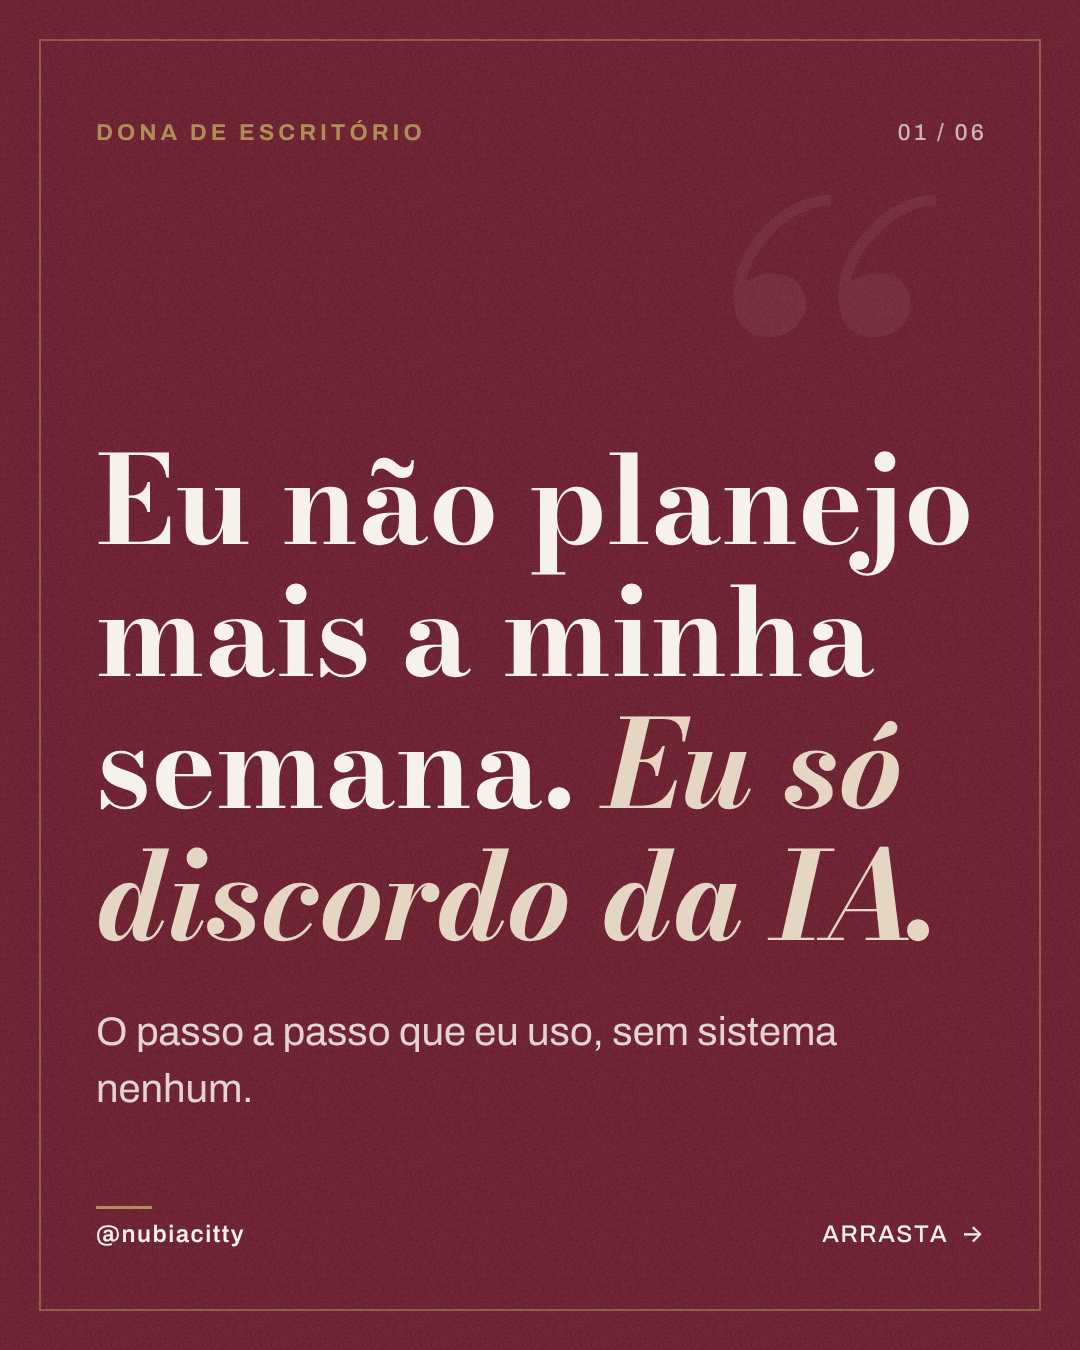
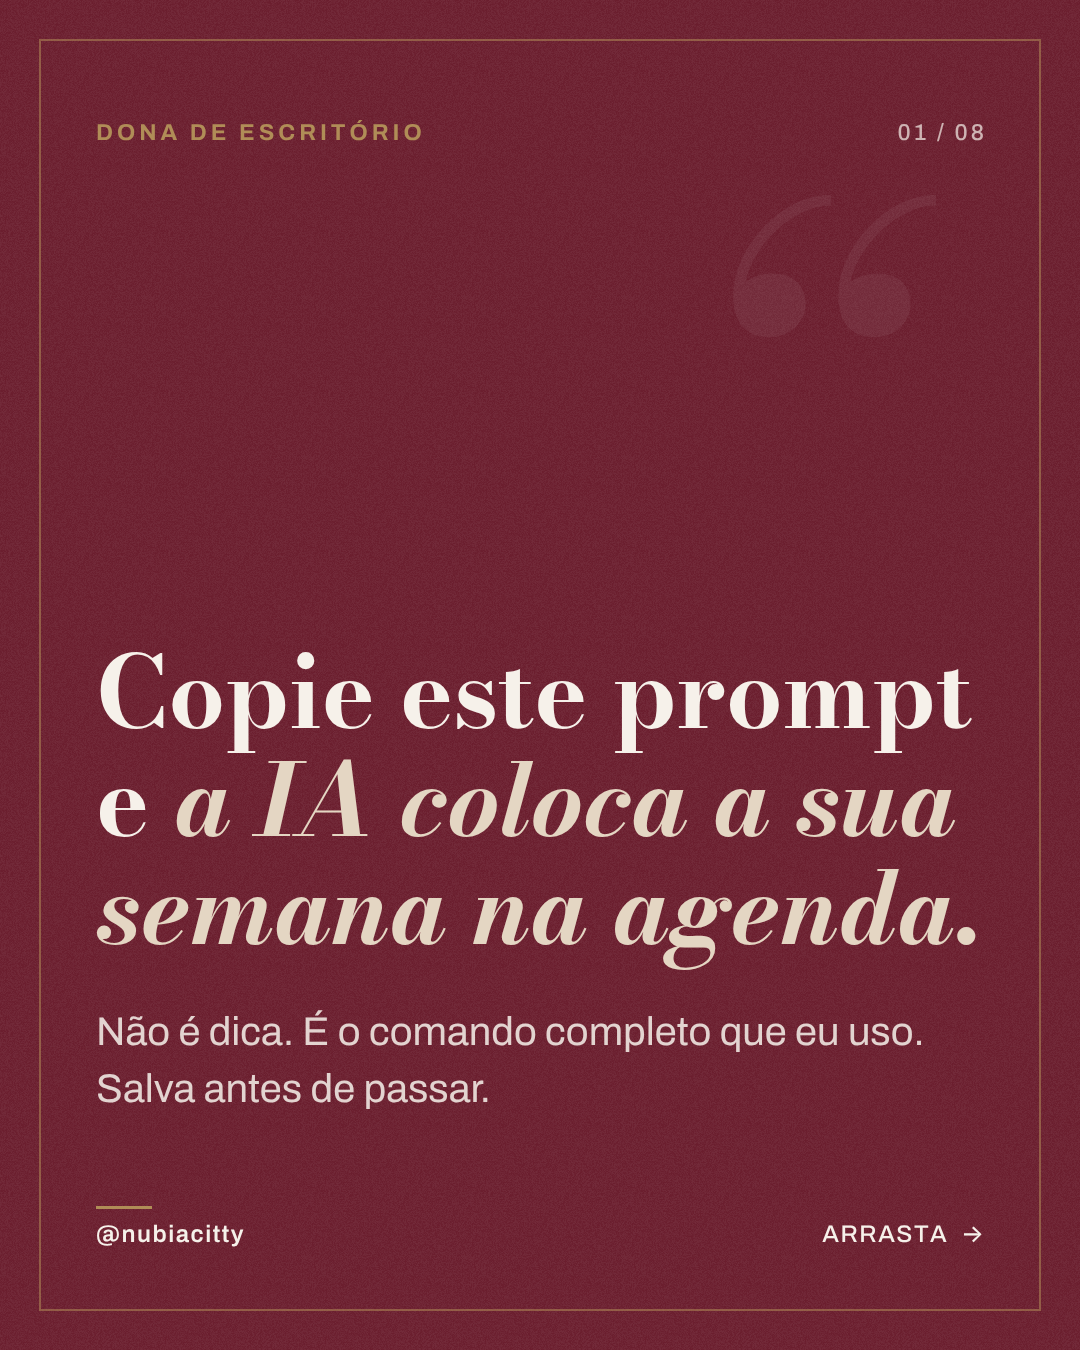
Carrossel do feriado refeito: prompt completo que coloca a semana na agenda (.ics)
Claude-Session: https://claude.ai/code/session_01D3NFYJzeTLmuJ1KpzmkBCa

Changed region(s): [[0.0917, 0.3111, 0.9167, 0.7156], [0.0917, 0.7467, 0.8556, 0.84], [0.0917, 0.3111, 0.4583, 0.4044]]

diff --git a/prontos-para-publicar/2026-11-02-feriado-planejar-ia/01-carrossel-planejar-semana-ia/textos.md b/prontos-para-publicar/2026-11-02-feriado-planejar-ia/01-carrossel-planejar-semana-ia/textos.md
@@ -1,28 +1,35 @@
-# Eu não planejo mais a minha semana. Eu só discordo da IA.
+# Copie este prompt e a IA monta a sua semana na agenda
 
 Formato: carrossel · Objetivo: autoridade · Série: Dona de escritório
 
 ## Cards
-1. Eu não planejo mais a minha semana. Eu só discordo da IA. | O passo a passo que eu uso, sem sistema nenhum.
-2. Pedir "me ajuda a planejar a semana" e receber uma lista que serve pra qualquer pessoa. | IA sem contexto devolve o óbvio. O segredo está no que você entrega pra ela.
-3. Cole tudo do jeito que está na sua cabeça. Bagunçado mesmo, uai. | Prazos, audiências, reuniões, pendências e o que está te tirando o sono. Nunca cole nome de cliente nem número de processo.
-4. Diga o que é inegociável e quanto tempo você tem de verdade. | Prazo fatal e audiência não se movem. Diga quantas horas sobram por dia e em que horário você rende melhor.
-5. Peça no máximo 3 prioridades por dia. Depois corte sem dó. | "Isso não cabe." "Isso eu delego." O plano bom nasce da sua discordância, não da primeira resposta.
-6. "Você é minha chefe de gabinete. Monte a minha semana." | Comando: "Abaixo está tudo que tenho esta semana. Monte um plano de segunda a sexta com no máximo 3 prioridades por dia, respeitando prazos fatais e audiências, e me diga o que delegar ou adiar."
+1. Copie este prompt e a IA coloca a sua semana na agenda. | Não é dica. É o comando completo que eu uso. Salva antes de passar.
+2. Uma semana em blocos de horário direto no seu celular. | A IA monta o plano e gera um arquivo de agenda. Você importa no iPhone ou no Google Agenda e pronto: está tudo marcado.
+3. Separe três listas: fixos, prazos e tarefas. | Fixos: audiências e reuniões com dia e hora. Prazos: o que vence e quando. Tarefas: o que fazer e quanto tempo leva. Use apelidos: "Cliente A", "Processo 1". Nunca nome real.
+4. "Você é minha chefe de gabinete. Estas são as regras." | "Meu expediente é das [8h] às [18h], almoço das [12h] às [13h]. Rendo melhor de [manhã]. Compromisso fixo não se move. No máximo 3 prioridades por dia. Reserve 30 minutos por dia para imprevistos."
+5. "Esta é a minha semana: fixos, prazos e tarefas." | "Fixos: [dia, horário, o quê]. Prazos: [o quê, data limite]. Tarefas: [o quê, tempo estimado]." Cole as três listas do jeito que estiverem.
+6. "Monte a semana e gere o arquivo da agenda." | "Monte segunda a sexta em blocos com início e fim. Agende cada prazo pelo menos 1 dia antes do vencimento. Diga o que delegar ou adiar. Depois gere um arquivo .ics com todos os blocos, no fuso America/Sao_Paulo."
+7. Dois toques e a semana está marcada. | iPhone: abra o arquivo .ics e toque em "Adicionar tudo". Google Agenda, no computador: Configurações > Importar e exportar > Importar > escolha o arquivo.
+8. Agora discorde. O plano bom nasce do seu corte. | "Isso não cabe." "Mova isso para quinta." "Isso eu delego." Peça um arquivo novo e importe de novo. O prompt completo está na legenda.
 
 ## Legenda
-Feriado serve pra uma coisa que ninguém faz: deixar a semana planejada antes dela começar.
+Copie, cole na sua IA (ChatGPT, Claude ou Gemini) e troque o que está entre colchetes. No fim, a semana entra na sua agenda.
 
-Eu faço isso conversando com a IA e, principalmente, discordando dela. Salva o passo a passo e o comando do último card.
+PROMPT:
+Você é minha chefe de gabinete. Regras: meu expediente é das [8h] às [18h], almoço das [12h] às [13h]. Rendo melhor de [manhã]. Compromisso fixo não se move. No máximo 3 prioridades por dia. Reserve 30 minutos por dia para imprevistos.
+Fixos: [dia, horário, o quê].
+Prazos: [o quê, data limite].
+Tarefas: [o quê, tempo estimado].
+Monte a minha semana de segunda a sexta em blocos com horário de início e fim. Agende o trabalho de cada prazo pelo menos 1 dia antes do vencimento. Diga o que devo delegar ou adiar. Depois, gere um arquivo .ics com todos os blocos, no fuso America/Sao_Paulo, para eu importar na minha agenda.
 
-Aviso de advogada: nunca cole nome de cliente, número de processo ou dado sensível na IA. Sigilo vem antes da praticidade.
+Aviso de advogada: use apelidos (Cliente A, Processo 1). Nunca cole nome de cliente, número de processo ou dado sensível na IA.
 
-Quer ver o sistema que faz isso sozinho todo dia no meu escritório? Aula ao vivo e gratuita dia 10/11, às 20h. Link nos stories.
+Quer ver o sistema que faz isso sozinho, todo dia, no meu escritório? Aula ao vivo e gratuita dia 10/11, às 20h. Link nos stories.
 
 #advocacia #advogados #inteligenciaartificial #produtividade #gestaojuridica
 
 ## CTA
-Salvar e testar amanhã cedo.
+Salvar, copiar o prompt da legenda e testar hoje.
 
 ## Objetivo estratégico
 Autoridade em IA aplicada e aquecimento da aula de 10/11, com conteúdo salvável e generoso.

diff --git a/prontos-para-publicar/2026-11-02-feriado-planejar-ia/02-story-aula-feriado/textos.md b/prontos-para-publicar/2026-11-02-feriado-planejar-ia/02-story-aula-feriado/textos.md
@@ -3,7 +3,7 @@
 Formato: stories · Objetivo: conversao
 
 ## Sequência
-1. Semana curta pede plano curto. | Postei no feed como eu planejo a minha com IA, em 3 passos.
+1. Semana curta pede plano curto. | Postei no feed o prompt completo que coloca a semana direto na sua agenda.
    Figurinha: nenhuma. Adicione a figurinha de menção ao post do feed.
 2. Dia 10/11, às 20h, eu abro o sistema por dentro. | O que planeja, escreve e mede o marketing do meu escritório todo dia.
    Figurinha: nenhuma. Adicione a figurinha de LINK: https://eepurl.com/pnjbcz2JOk com o texto 'Quero minha vaga'.
